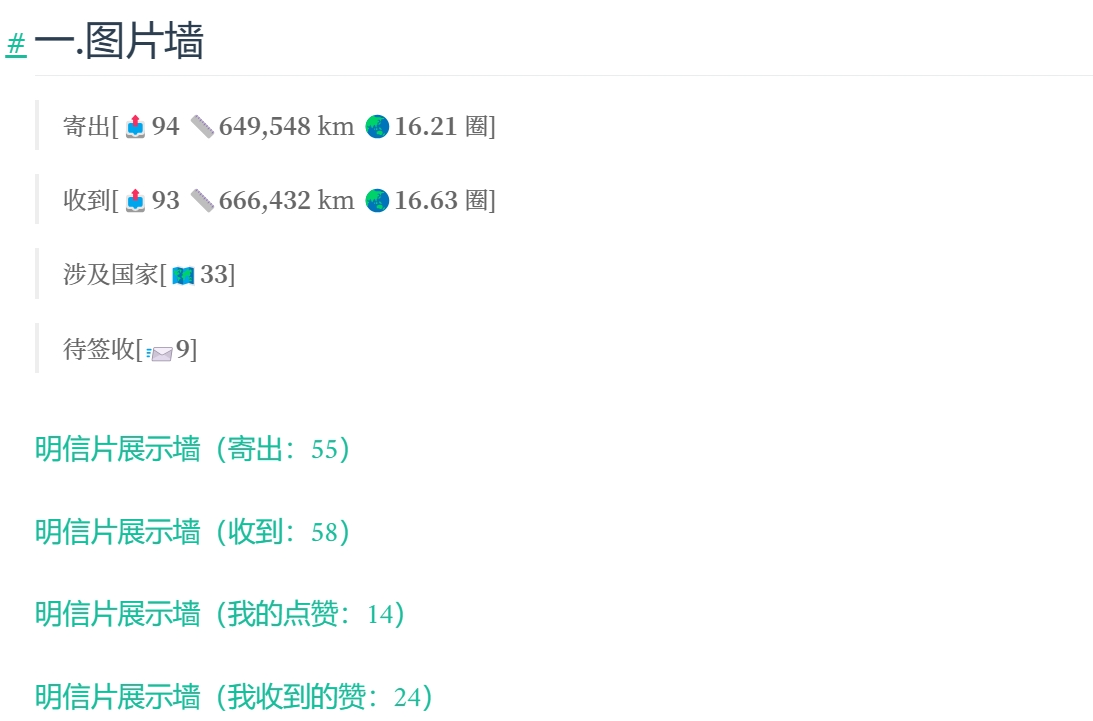
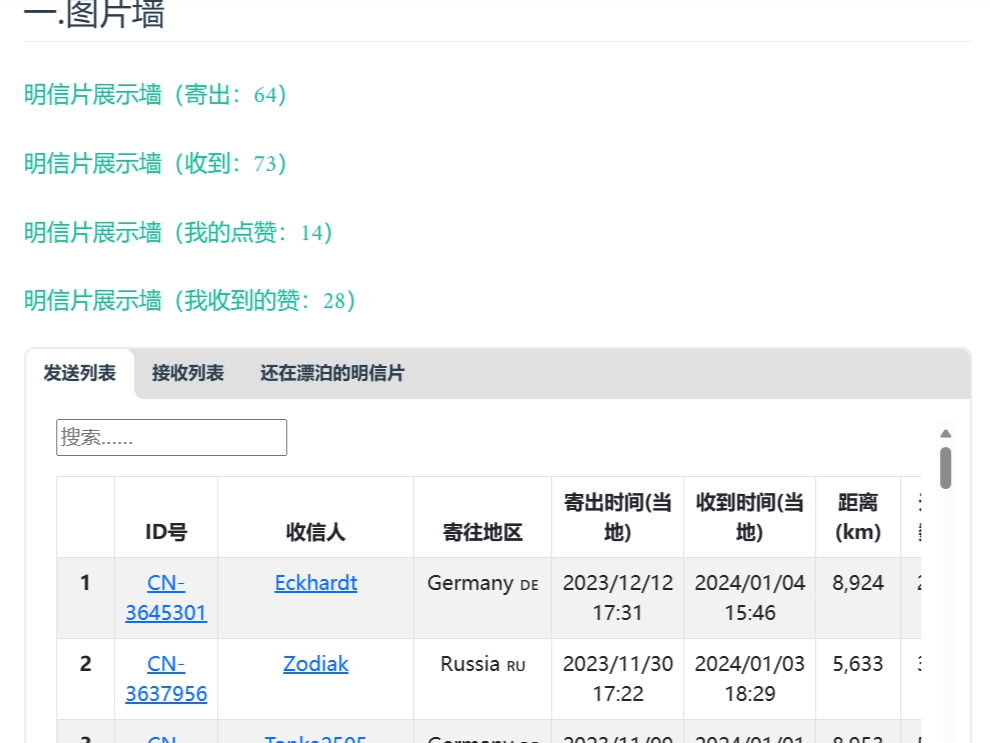
update readme

diff --git a/output/traveling.html b/output/traveling.html
@@ -72,84 +72,102 @@
   <tbody>
     <tr>
       <th class="text-center">1</th>
+      <td class="text-center"><a href='https://www.postcrossing.com/travelingpostcard/CN-3660599' target='_blank'>CN-3660599</a></td>
+      <td class="text-center"><a href='https://www.postcrossing.com/user/sarmas' target='_blank'>sarmas</a></td>
+      <td class="text-center">Finland 🇫🇮</td>
+      <td class="text-center">2024/01/05 15:19</td>
+      <td class="text-center">7,839 km</td>
+      <td class="text-center">3</td>
+    </tr>
+    <tr>
+      <th class="text-center">2</th>
+      <td class="text-center"><a href='https://www.postcrossing.com/travelingpostcard/CN-3660600' target='_blank'>CN-3660600</a></td>
+      <td class="text-center"><a href='https://www.postcrossing.com/user/Micha37' target='_blank'>Micha37</a></td>
+      <td class="text-center">Germany 🇩🇪</td>
+      <td class="text-center">2024/01/05 15:19</td>
+      <td class="text-center">8,904 km</td>
+      <td class="text-center">3</td>
+    </tr>
+    <tr>
+      <th class="text-center">3</th>
       <td class="text-center"><a href='https://www.postcrossing.com/travelingpostcard/CN-3659000' target='_blank'>CN-3659000</a></td>
       <td class="text-center"><a href='https://www.postcrossing.com/user/BeckyS' target='_blank'>BeckyS</a></td>
       <td class="text-center">U.S.A. 🇺🇸</td>
       <td class="text-center">2024/01/03 10:20</td>
       <td class="text-center">10,373 km</td>
-      <td class="text-center">2</td>
+      <td class="text-center">5</td>
     </tr>
     <tr>
-      <th class="text-center">2</th>
+      <th class="text-center">4</th>
       <td class="text-center"><a href='https://www.postcrossing.com/travelingpostcard/CN-3659001' target='_blank'>CN-3659001</a></td>
       <td class="text-center"><a href='https://www.postcrossing.com/user/Topas' target='_blank'>Topas</a></td>
       <td class="text-center">Germany 🇩🇪</td>
       <td class="text-center">2024/01/03 10:20</td>
       <td class="text-center">9,140 km</td>
-      <td class="text-center">2</td>
+      <td class="text-center">5</td>
     </tr>
     <tr>
-      <th class="text-center">3</th>
+      <th class="text-center">5</th>
       <td class="text-center"><a href='https://www.postcrossing.com/travelingpostcard/CN-3658999' target='_blank'>CN-3658999</a></td>
       <td class="text-center"><a href='https://www.postcrossing.com/user/chacoco2' target='_blank'>chacoco2</a></td>
       <td class="text-center">France 🇫🇷</td>
       <td class="text-center">2024/01/03 10:20</td>
       <td class="text-center">9,869 km</td>
-      <td class="text-center">2</td>
+      <td class="text-center">5</td>
     </tr>
     <tr>
-      <th class="text-center">4</th>
+      <th class="text-center">6</th>
       <td class="text-center"><a href='https://www.postcrossing.com/travelingpostcard/CN-3655425' target='_blank'>CN-3655425</a></td>
       <td class="text-center"><a href='https://www.postcrossing.com/user/volker-55' target='_blank'>volker-55</a></td>
       <td class="text-center">Germany 🇩🇪</td>
       <td class="text-center">2023/12/29 16:58</td>
       <td class="text-center">8,903 km</td>
-      <td class="text-center">6</td>
+      <td class="text-center">9</td>
     </tr>
     <tr>
-      <th class="text-center">5</th>
+      <th class="text-center">7</th>
       <td class="text-center"><a href='https://www.postcrossing.com/travelingpostcard/CN-3655671' target='_blank'>CN-3655671</a></td>
       <td class="text-center"><a href='https://www.postcrossing.com/user/Daniel_and_Tanya' target='_blank'>Daniel_and_Tanya</a></td>
       <td class="text-center">Russia 🇷🇺</td>
       <td class="text-center">2023/12/29 22:23</td>
       <td class="text-center">5,909 km</td>
-      <td class="text-center">6</td>
+      <td class="text-center">9</td>
     </tr>
     <tr>
-      <th class="text-center">6</th>
+      <th class="text-center">8</th>
       <td class="text-center"><a href='https://www.postcrossing.com/travelingpostcard/CN-3651287' target='_blank'>CN-3651287</a></td>
       <td class="text-center"><a href='https://www.postcrossing.com/user/Marisolt' target='_blank'>Marisolt</a></td>
       <td class="text-center">Ukraine 🇺🇦</td>
       <td class="text-center">2023/12/23 09:22</td>
       <td class="text-center">7,659 km</td>
-      <td class="text-center">13</td>
+      <td class="text-center">16</td>
     </tr>
     <tr>
-      <th class="text-center">7</th>
+      <th class="text-center">9</th>
       <td class="text-center"><a href='https://www.postcrossing.com/travelingpostcard/CN-3651286' target='_blank'>CN-3651286</a></td>
       <td class="text-center"><a href='https://www.postcrossing.com/user/NonnieL' target='_blank'>NonnieL</a></td>
       <td class="text-center">U.S.A. 🇺🇸</td>
       <td class="text-center">2023/12/23 09:22</td>
       <td class="text-center">12,917 km</td>
-      <td class="text-center">13</td>
+      <td class="text-center">16</td>
     </tr>
     <tr>
-      <th class="text-center">8</th>
+      <th class="text-center">10</th>
       <td class="text-center"><a href='https://www.postcrossing.com/travelingpostcard/CN-3630892' target='_blank'>CN-3630892</a></td>
       <td class="text-center"><a href='https://www.postcrossing.com/user/Lada_zam06' target='_blank'>Lada_zam06</a></td>
       <td class="text-center">Russia 🇷🇺</td>
       <td class="text-center">2023/11/19 09:26</td>
       <td class="text-center">5,633 km</td>
-      <td class="text-center">47</td>
+      <td class="text-center">50</td>
     </tr>
     <tr>
-      <th class="text-center">9</th>
+      <th class="text-center">11</th>
       <td class="text-center"><a href='https://www.postcrossing.com/travelingpostcard/CN-3627725' target='_blank'>CN-3627725</a></td>
       <td class="text-center"><a href='https://www.postcrossing.com/user/craftea' target='_blank'>craftea</a></td>
       <td class="text-center">Canada 🇨🇦</td>
       <td class="text-center">2023/11/14 09:50</td>
       <td class="text-center">12,392 km</td>
-      <td class="text-center">52</td>
+      <td class="text-center">55</td>
     </tr>
   </tbody>
 </table>

diff --git a/scripts/createPersonalPage.py b/scripts/createPersonalPage.py
@@ -19,7 +19,7 @@ import re
 
 with open("scripts/config.json", "r") as file:
     data = json.load(file)
-# account = data["account"]
+personalPageLink = data["personalPageLink"]
 # nickName = data["nickName"]
 Cookie = data["Cookie"]
 picDriverPath = data["picDriverPath"]
@@ -149,7 +149,7 @@ def replaceTemplate():
         data = f.read()  
         dataNew = data.replace('$account',account)
         print(f"已替换account:{account}")
-        dataNew = dataNew.replace('$registerInfo',registerInfo).replace('$about',about).replace('$coors',coorLink)
+        dataNew = dataNew.replace('$registerInfo',registerInfo).replace('$about',about).replace('$coors',coorLink).replace('$personalPageLink',personalPageLink)
         print("已替换个人汇总信息")        
         dataNew = dataNew.replace('$title',title_final)
         print("已替换明信片墙title")
@@ -254,7 +254,7 @@ def getCardStoryList(type):
                 
             else:
                 comment = ":::"      
-            userInfo = f'[{id["userInfo"]}](https://www.postcrossing.com/user/{id["userInfo"]})'
+            userInfo = f'[{id["userInfo"]}](https://www.postcrossing.com/user/{id["userInfo"]})' if id["userInfo"] !="account closed" else "*用户已注销*"
 
             picFileName = id["picFileName"]
             countryNameEmoji = id["countryNameEmoji"] if id["countryNameEmoji"] is not None else ""

diff --git a/template/信息汇总_template.md b/template/信息汇总_template.md
@@ -19,7 +19,7 @@ $about
 @tab 我的位置
 
 <iframe 
-src="https://postcrossing.4a1801.life/LocationMap.html" 
+src="$personalPageLink/LocationMap.html" 
 frameborder=0
 height=500
 width=100%
@@ -40,7 +40,7 @@ $title
 @tab 发送列表
 
 <iframe 
-src="https://postcrossing.4a1801.life/output/sent.html" 
+src="$personalPageLink/output/sent.html" 
 frameborder=0
 height=500
 width=100%
@@ -51,7 +51,7 @@ scrolling=auto
 @tab 接收列表
 
 <iframe 
-src="https://postcrossing.4a1801.life/output/received.html" 
+src="$personalPageLink/output/received.html" 
 frameborder=0
 height=500
 width=100%
@@ -62,7 +62,7 @@ scrolling=auto
 @tab 还在漂泊的明信片
 
 <iframe 
-src="https://postcrossing.4a1801.life/output/traveling.html" 
+src="$personalPageLink/output/traveling.html" 
 frameborder=0
 height=500
 width=100%
@@ -83,10 +83,10 @@ scrolling=auto
 @tab Map
 ### 个人收发Map
 
-网址：https://postcrossing.4a1801.life/Map.html
+网址：$personalPageLink/Map.html
 
 <iframe 
-src="https://postcrossing.4a1801.life/Map.html" 
+src="$personalPageLink/Map.html" 
 frameborder=0
 height=500
 width=100%
@@ -97,10 +97,10 @@ scrolling=auto
 @tab ClusterMap
 ### 个人收发ClusterMap
 
-网址：https://postcrossing.4a1801.life/ClusterMap.html
+网址：$personalPageLink/ClusterMap.html
 
 <iframe 
-src="https://postcrossing.4a1801.life/ClusterMap.html" 
+src="$personalPageLink/ClusterMap.html" 
 frameborder=0
 height=500
 width=100%
@@ -295,7 +295,7 @@ const option = {
 @tab 各国明信片
 
 <iframe 
-src="https://postcrossing.4a1801.life/output/CountryStats.html" 
+src="$personalPageLink/output/CountryStats.html" 
 frameborder=0
 height=500
 width=100%

diff --git a/gallery/信息汇总.md b/gallery/信息汇总.md
@@ -10,7 +10,7 @@ order: 1
 ---
 :::tabs 
 @tab 基本信息
-> 注册时间：2013/05/18 [至今10年（3884天）]
+> 注册时间：2013/05/18 [至今10年（3887天）]
 
 > 寄出[📤**103** 📏**728,006** km 🌏**18.2** 圈]
 
@@ -20,7 +20,7 @@ order: 1
 > 涉及国家[🗺**33**]
 
 
-> 待签收[📨**9**]
+> 待签收[📨**11**]
 
 
  
@@ -3019,7 +3019,7 @@ Natalia。”
 
 [CN-1152858](https://www.postcrossing.com/postcards/CN-1152858)
 
-> 寄往 [account closed](https://www.postcrossing.com/user/account closed) :netherlands:
+> 寄往 *用户已注销* :netherlands:
 > 📤 [China](https://www.bing.com/maps/?cp=29.82739~106.43645&lvl=12.0&setlang=zh-Hans) 2013/12/09 19:45 (当地)
 > 📥 [Netherlands](https://www.bing.com/maps/?cp=51.86583~4.66111&lvl=12.0&setlang=zh-Hans) 2013/12/28 21:28 (当地)
  📏 8,201 | ⏱ 19
